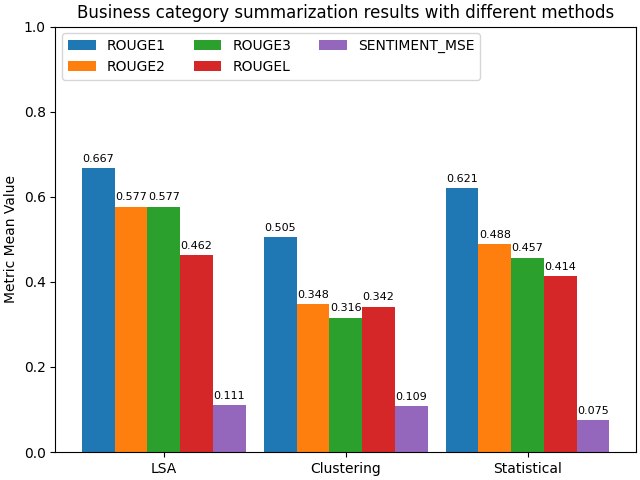
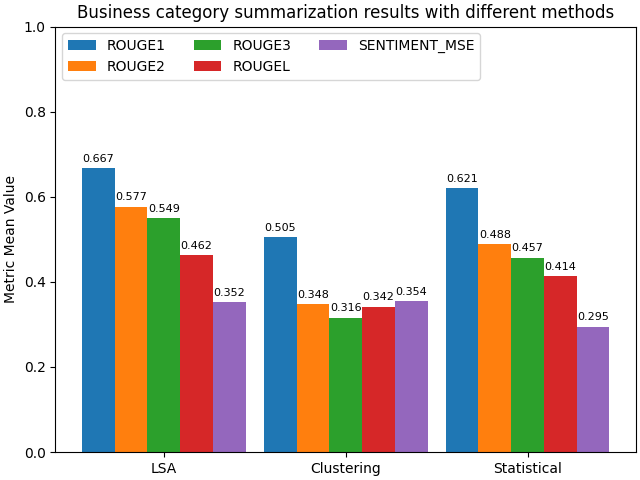
final touch I promise

diff --git a/bbc_news_ds_eval.py b/bbc_news_ds_eval.py
@@ -61,7 +61,7 @@ def dataset_eval(lsa_topics_num=2, num_clusters=4, summarization_perc=0.35):
 
             summary_sentiment = estimate_sentiments(lsa_summary)
             summary_sentiment_vec = [summary_sentiment.polarity, summary_sentiment.subjectivity]
-            lsa_sentiments.append(np.square(np.subtract(text_sentiment_vec, summary_sentiment_vec)))
+            lsa_sentiments.append(distance.euclidean(text_sentiment_vec, summary_sentiment_vec))
 
             score = evaluate_summarization(lsa_summary, target_summary)
             lsa_rouge_1.append(score['rouge1'].fmeasure)
@@ -73,7 +73,7 @@ def dataset_eval(lsa_topics_num=2, num_clusters=4, summarization_perc=0.35):
                                                                      summarization_perc=summarization_perc)
             summary_sentiment = estimate_sentiments(clustering_summary)
             summary_sentiment_vec = [summary_sentiment.polarity, summary_sentiment.subjectivity]
-            clust_sentiments.append(np.square(np.subtract(text_sentiment_vec, summary_sentiment_vec)))
+            clust_sentiments.append(distance.euclidean(text_sentiment_vec, summary_sentiment_vec))
 
             score = evaluate_summarization(clustering_summary, target_summary)
             clust_rouge_1.append(score['rouge1'].fmeasure)
@@ -84,7 +84,7 @@ def dataset_eval(lsa_topics_num=2, num_clusters=4, summarization_perc=0.35):
             statistical_summary = statistical_summarizer(text, stop_words, summarization_perc=summarization_perc)
             summary_sentiment = estimate_sentiments(statistical_summary)
             summary_sentiment_vec = [summary_sentiment.polarity, summary_sentiment.subjectivity]
-            stas_sentiments.append(np.square(np.subtract(text_sentiment_vec, summary_sentiment_vec)))
+            stas_sentiments.append(distance.euclidean(text_sentiment_vec, summary_sentiment_vec))
 
             score = evaluate_summarization(statistical_summary, target_summary)
             stas_rouge_1.append(score['rouge1'].fmeasure)

diff --git a/utils.py b/utils.py
@@ -81,7 +81,7 @@ def plot_category_summary_results(category_name, category_results):
     metrics_means = {
         'ROUGE1': (category_results['lsa_rouge1'], category_results['clustering_rouge1'], category_results['statistical_rouge1']),
         'ROUGE2': (category_results['lsa_rouge2'], category_results['clustering_rouge2'], category_results['statistical_rouge2']),
-        'ROUGE3': (category_results['lsa_rouge2'], category_results['clustering_rouge3'], category_results['statistical_rouge3']),
+        'ROUGE3': (category_results['lsa_rouge3'], category_results['clustering_rouge3'], category_results['statistical_rouge3']),
         'ROUGEL': (category_results['lsa_rougeL'], category_results['clustering_rougeL'], category_results['statistical_rougeL']),
         'SENTIMENT_MSE': (category_results['lsa_sentiment_mse'], category_results['clustering_sentiment_mse'],
                           category_results['statistical_sentiment_mse'])

diff --git a/main.py b/main.py
@@ -13,7 +13,7 @@ stop_words = nltk.corpus.stopwords.words('english')
 
 print("***********************DATASET EVALUATION************************")
 
-dataset_eval(lsa_topics_num=2, num_clusters=4, summarization_perc=0.35)
+#dataset_eval(lsa_topics_num=2, num_clusters=4, summarization_perc=0.35)
 
 print("*****************Visualize DATASET EVALUATION******************")
 results_csv = pd.read_csv('./results/bbc_news_db_eval.csv', index_col=0)
